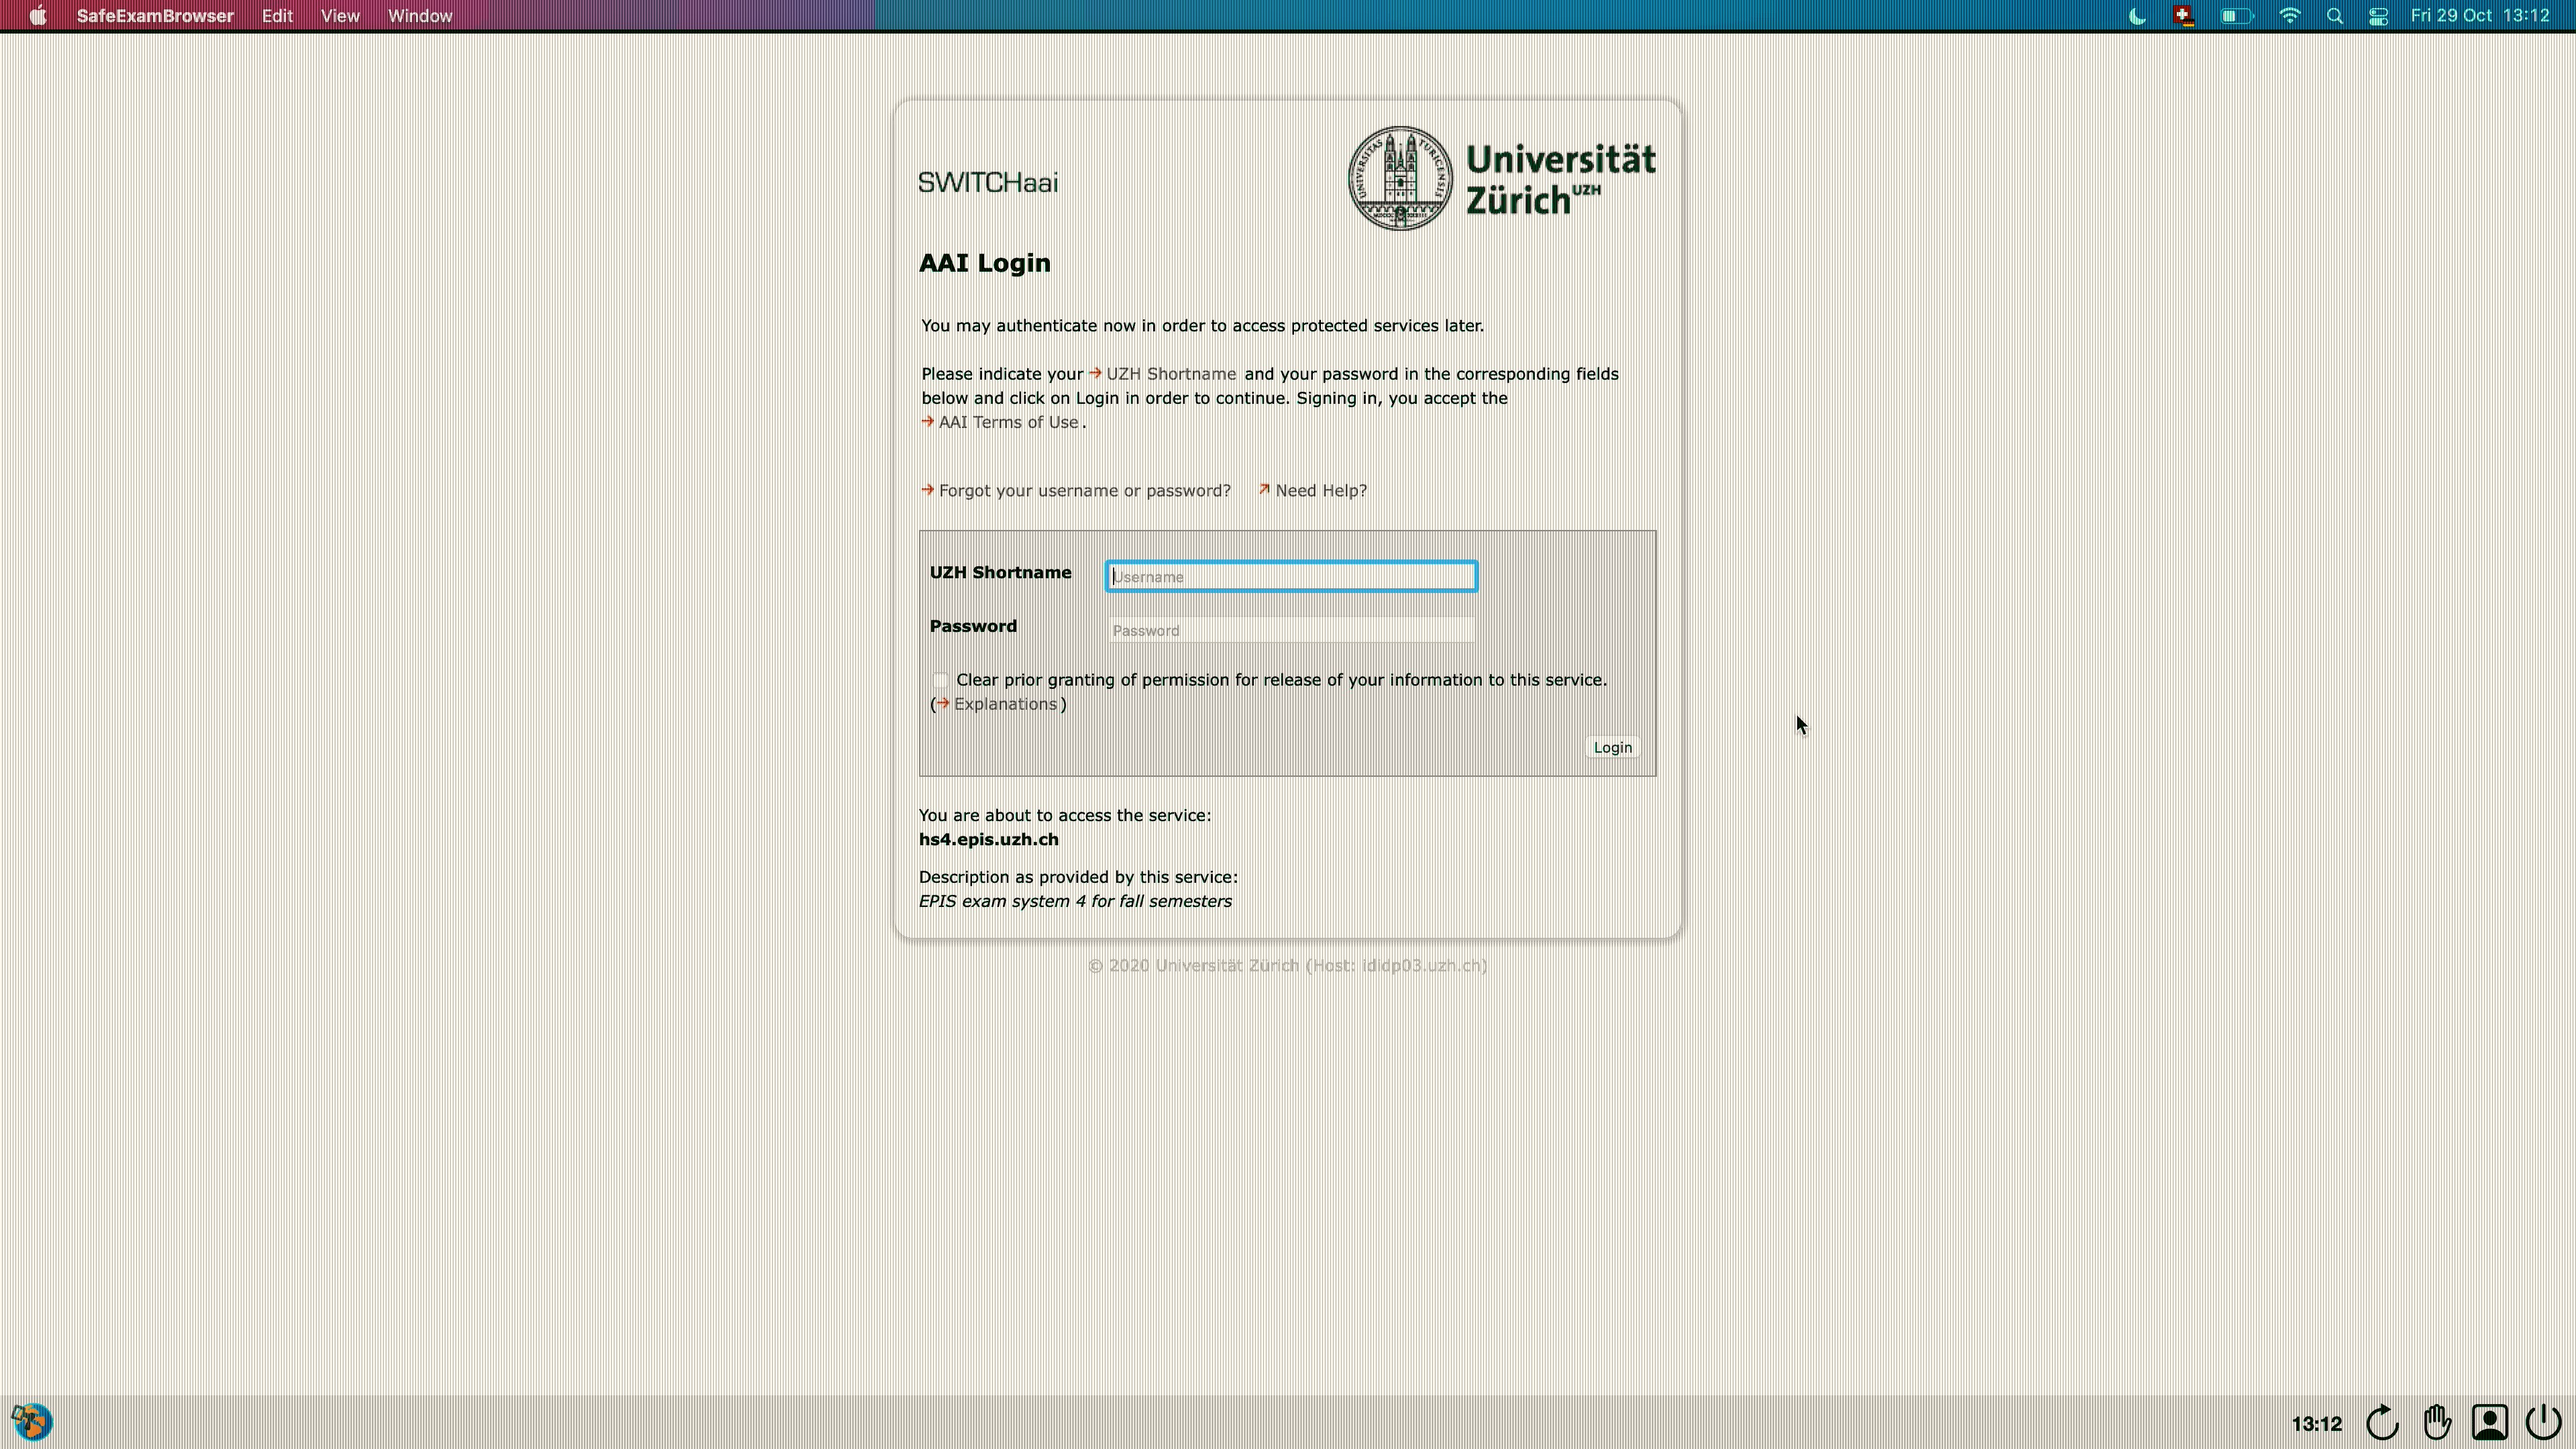
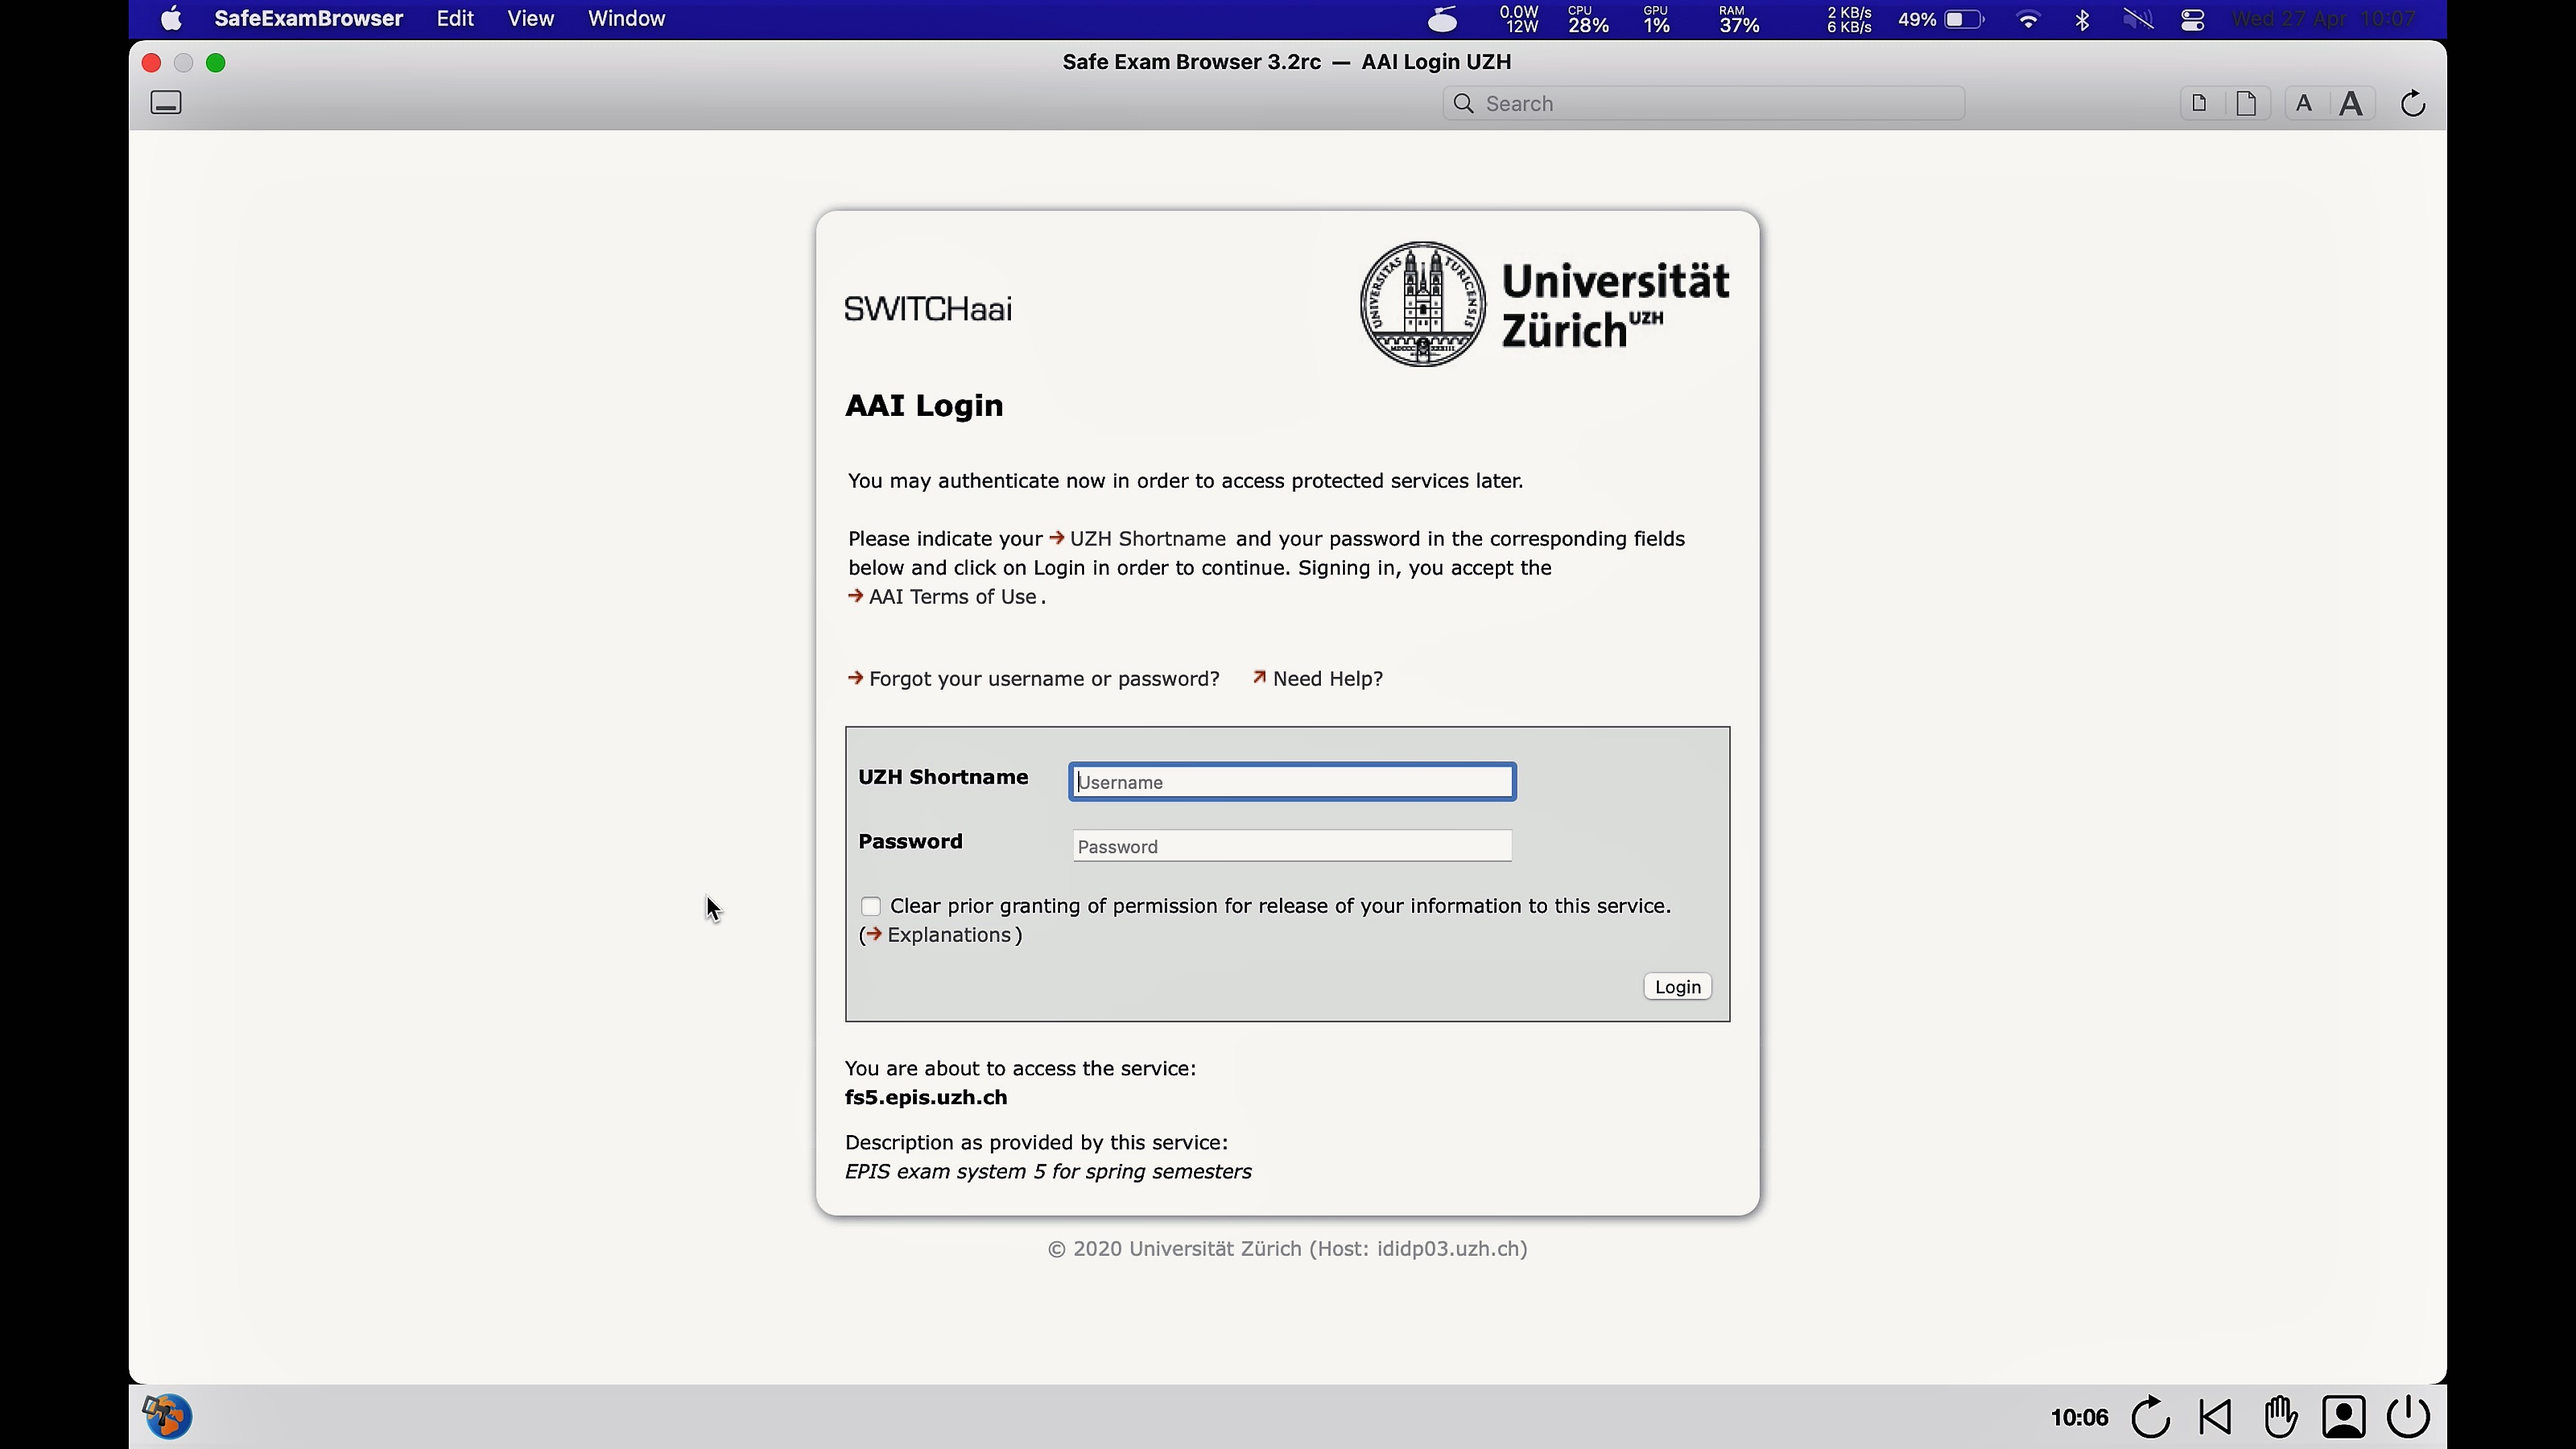
updated screenshots

diff --git a/exam_seb_epis_mac_en.md b/exam_seb_epis_mac_en.md
@@ -18,7 +18,7 @@ This documentation explains how to use the Safe Exam Browser in an **OLAT-EPIS**
 ### Start an exam
 Please make sure you have gone through the **checklist** before starting the exam [general information](https://uzh-oec.github.io/seb-en/exam_general_en.html){:target="_blank"}
 
-1. Open the chrome / firefox browser and log into OLAT-EPIS using the aaiSWITCH Login: [hs4.epis.uzh.ch](hs4.epis.uzh.ch){:target="_blank"}
+1. Open the chrome / firefox browser and log into OLAT-EPIS using the aaiSWITCH Login: [fs5.epis.uzh.ch](fs5.epis.uzh.ch){:target="_blank"}
 [![SEB-OLAT-Login](assets/SEB_Olat_Login.png)](assets/SEB_Olat_Login.png)
 
 1. A pop-up appears, which displays the exam you are about to take. The window further explains that the exam can only be edited using the **Safe Exam Browser**. Click on the **Start Safe Exam Browser** button.

diff --git a/exam_seb_epis_win_en.md b/exam_seb_epis_win_en.md
@@ -18,7 +18,7 @@ This documentation explains how to use the Safe Exam Browser in an **OLAT-EPIS**
 ### Start an exam
 Please make sure you have gone through the checklist before starting the exam [general information](https://uzh-oec.github.io/seb-en/exam_general_en.html){:target="_blank"}
 
-1. Open the chrome / firefox browser and log into OLAT-EPIS using the aaiSWITCH Login: [hs4.epis.uzh.ch](hs4.epis.uzh.ch){:target="_blank"}
+1. Open the chrome / firefox browser and log into OLAT-EPIS using the aaiSWITCH Login: [fs5.epis.uzh.ch](fs5.epis.uzh.ch){:target="_blank"}
 [![SEB-OLAT-Login](assets/SEB_Olat_Login.png)](assets/SEB_Olat_Login.png)
 
 1. A pop-up appears, which displays the exam you are about to take. The window further explains that the exam can only be edited using the **Safe Exam Browser**. Click on the **Start Safe Exam Browser** button.
